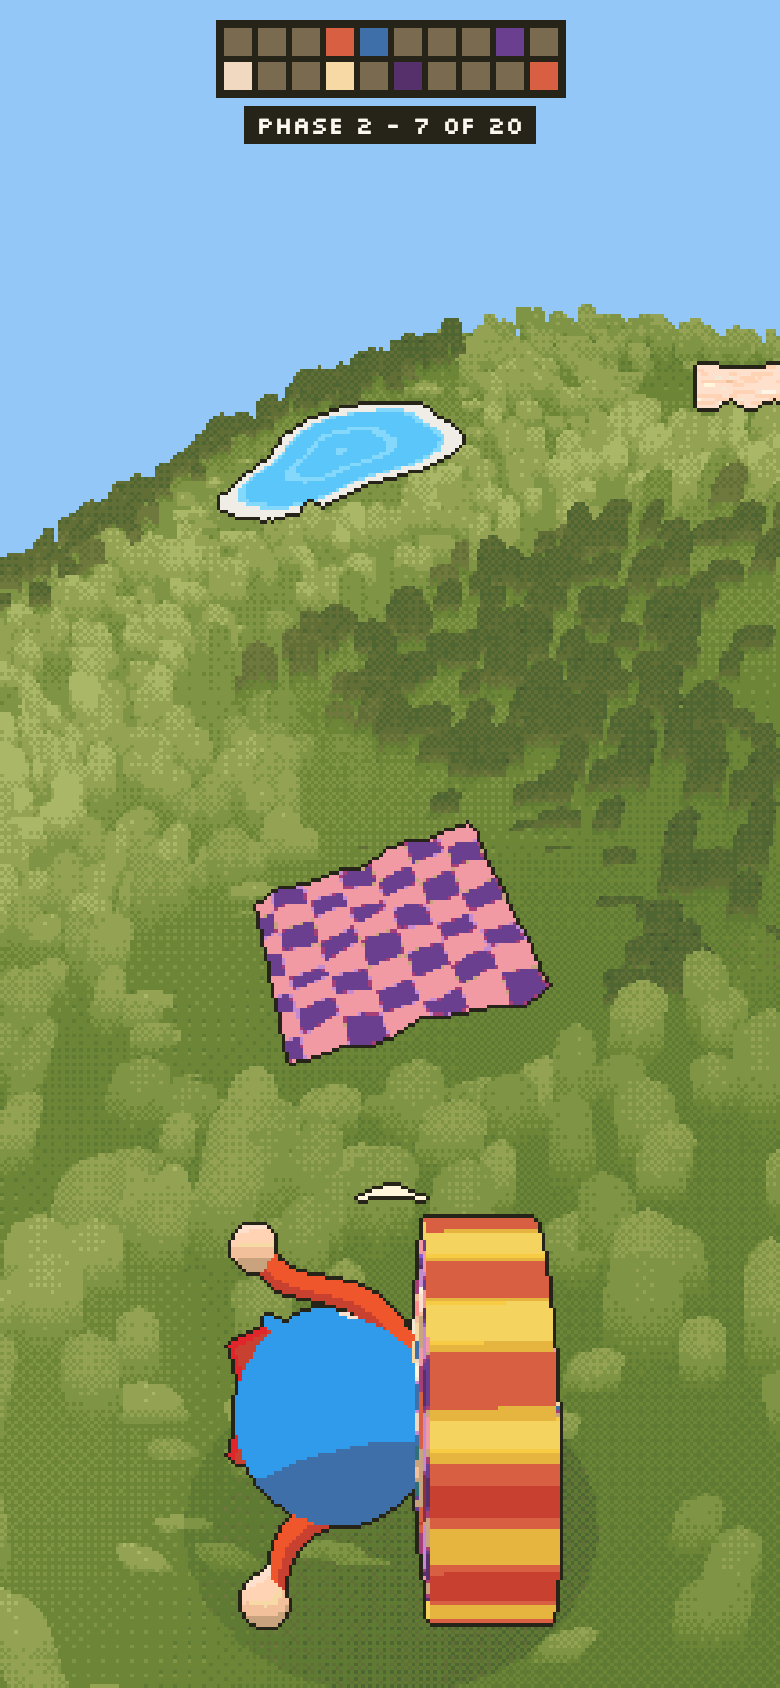
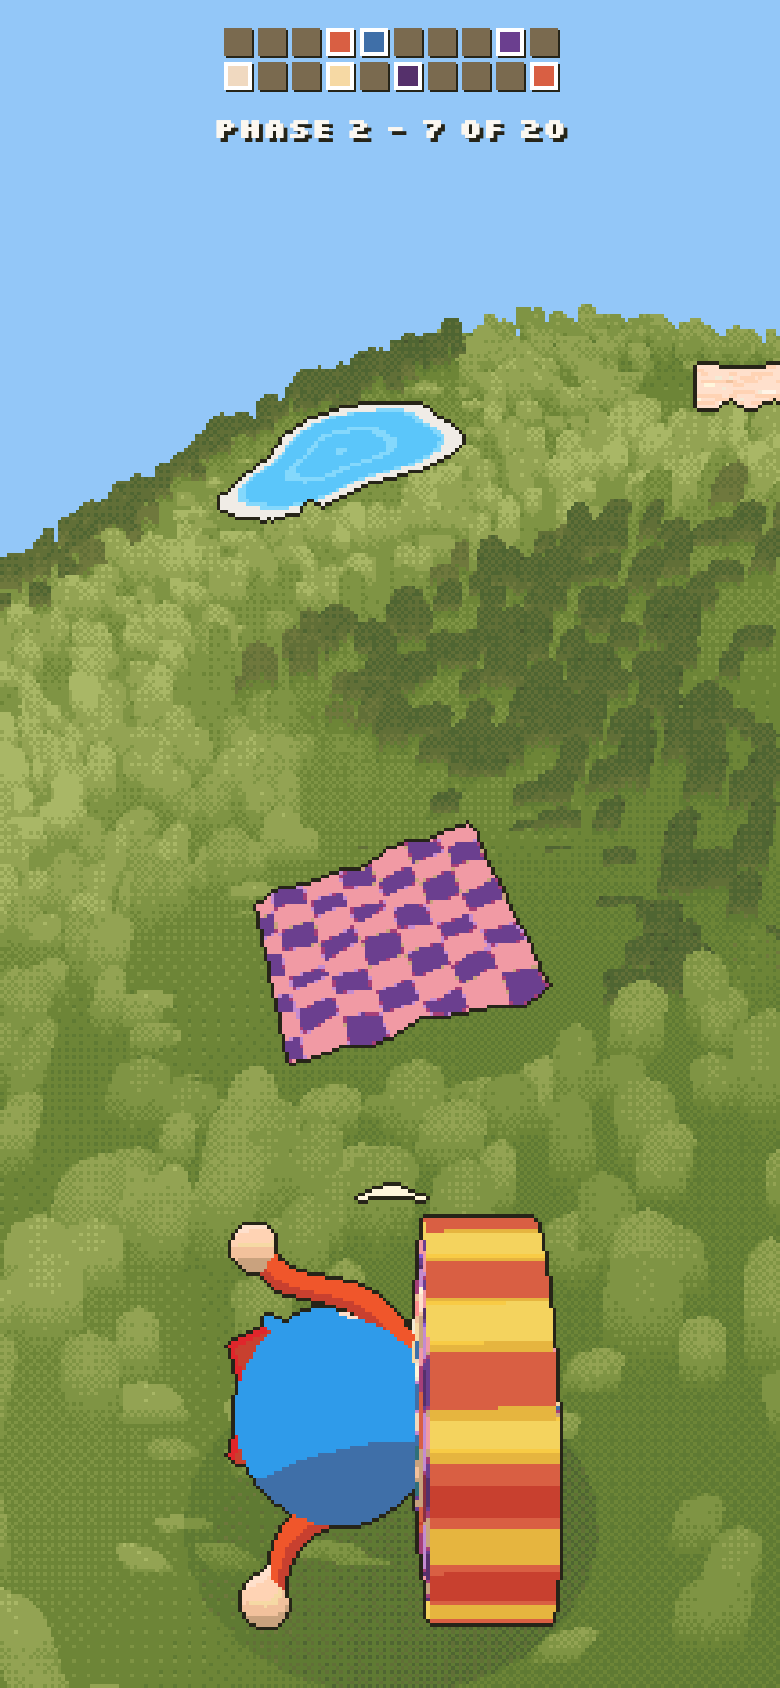
Restyle blanket progress display

Changed region(s): [[0.2769, 0.0, 0.7385, 0.0924]]

diff --git a/index.html b/index.html
@@ -52,12 +52,13 @@ button:focus-visible { outline: 2px solid var(--paper); outline-offset: 2px; }
 @media (prefers-reduced-motion: reduce) { .brand, .actions { animation: none; } }
 
 #hud { position: absolute; left: 0; right: 0; top: calc(env(safe-area-inset-top) + 10px); display: flex; flex-direction: column; align-items: center; gap: 4px; pointer-events: none; }
-#pips { display: grid; grid-template-columns: repeat(10, 14px); gap: 3px; padding: 4px; background: var(--ink); }
+#pips { display: grid; grid-template-columns: repeat(10, 14px); gap: 3px; padding: 4px; filter: drop-shadow(1px 1px 0 var(--ink)); }
 #pips i { width: 14px; height: 14px; background: var(--mid); }
-#pips i.on { background: var(--pip); }
+#pips i.on { background: var(--pip); box-shadow: inset 0 0 0 2px #fff; }
 #pips.dense { grid-template-columns: repeat(20, 8px); gap: 2px; }
 #pips.dense i { width: 8px; height: 8px; }
-#count { padding: 2px 6px; background: var(--ink); font-size: 12px; font-variant-numeric: tabular-nums; }
+#pips.dense i.on { box-shadow: inset 0 0 0 1px #fff; }
+#count { padding: 2px 6px; font-size: 14px; font-weight: 700; font-variant-numeric: tabular-nums; text-shadow: 2px 2px 0 var(--ink); }
 #toast { margin-top: 8px; padding: 3px 8px; background: #5bc6fa; color: var(--ink); font-size: 15px; font-weight: 700; }
 #hint { position: absolute; left: 50%; top: calc(100dvh - env(safe-area-inset-top) - 52px); width: max-content; max-width: 92%; margin: 0; padding: 3px 6px; transform: translateX(-50%); background: var(--ink); font-size: 10px; text-align: center; }
 #hint.gone { display: none; }

diff --git a/src/blanket/blanket.css b/src/blanket/blanket.css
@@ -45,12 +45,13 @@ button:focus-visible { outline: 2px solid var(--paper); outline-offset: 2px; }
 @media (prefers-reduced-motion: reduce) { .brand, .actions { animation: none; } }
 
 #hud { position: absolute; left: 0; right: 0; top: calc(env(safe-area-inset-top) + 10px); display: flex; flex-direction: column; align-items: center; gap: 4px; pointer-events: none; }
-#pips { display: grid; grid-template-columns: repeat(10, 14px); gap: 3px; padding: 4px; background: var(--ink); }
+#pips { display: grid; grid-template-columns: repeat(10, 14px); gap: 3px; padding: 4px; filter: drop-shadow(1px 1px 0 var(--ink)); }
 #pips i { width: 14px; height: 14px; background: var(--mid); }
-#pips i.on { background: var(--pip); }
+#pips i.on { background: var(--pip); box-shadow: inset 0 0 0 2px #fff; }
 #pips.dense { grid-template-columns: repeat(20, 8px); gap: 2px; }
 #pips.dense i { width: 8px; height: 8px; }
-#count { padding: 2px 6px; background: var(--ink); font-size: 12px; font-variant-numeric: tabular-nums; }
+#pips.dense i.on { box-shadow: inset 0 0 0 1px #fff; }
+#count { padding: 2px 6px; font-size: 14px; font-weight: 700; font-variant-numeric: tabular-nums; text-shadow: 2px 2px 0 var(--ink); }
 #toast { margin-top: 8px; padding: 3px 8px; background: #5bc6fa; color: var(--ink); font-size: 15px; font-weight: 700; }
 #hint { position: absolute; left: 50%; top: calc(100dvh - env(safe-area-inset-top) - 52px); width: max-content; max-width: 92%; margin: 0; padding: 3px 6px; transform: translateX(-50%); background: var(--ink); font-size: 10px; text-align: center; }
 #hint.gone { display: none; }
